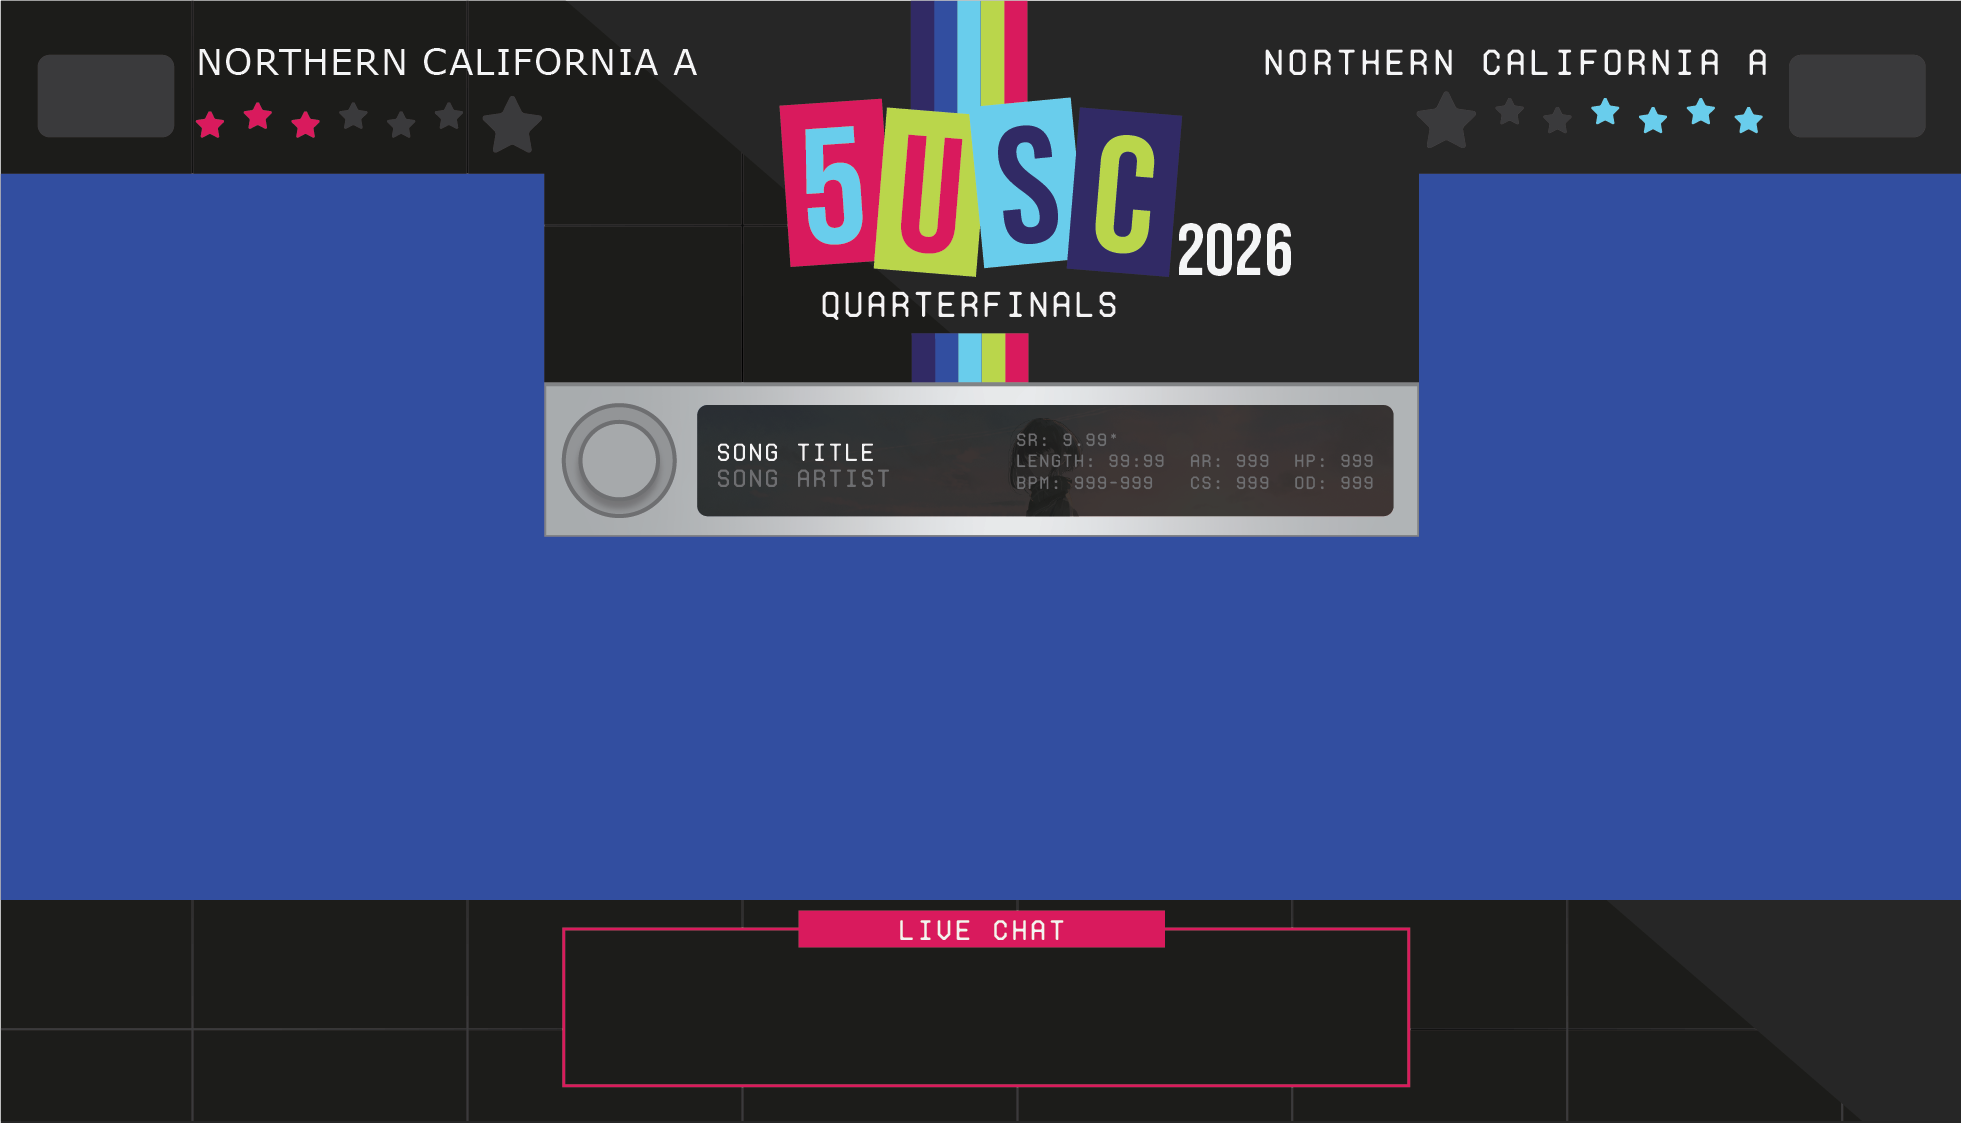
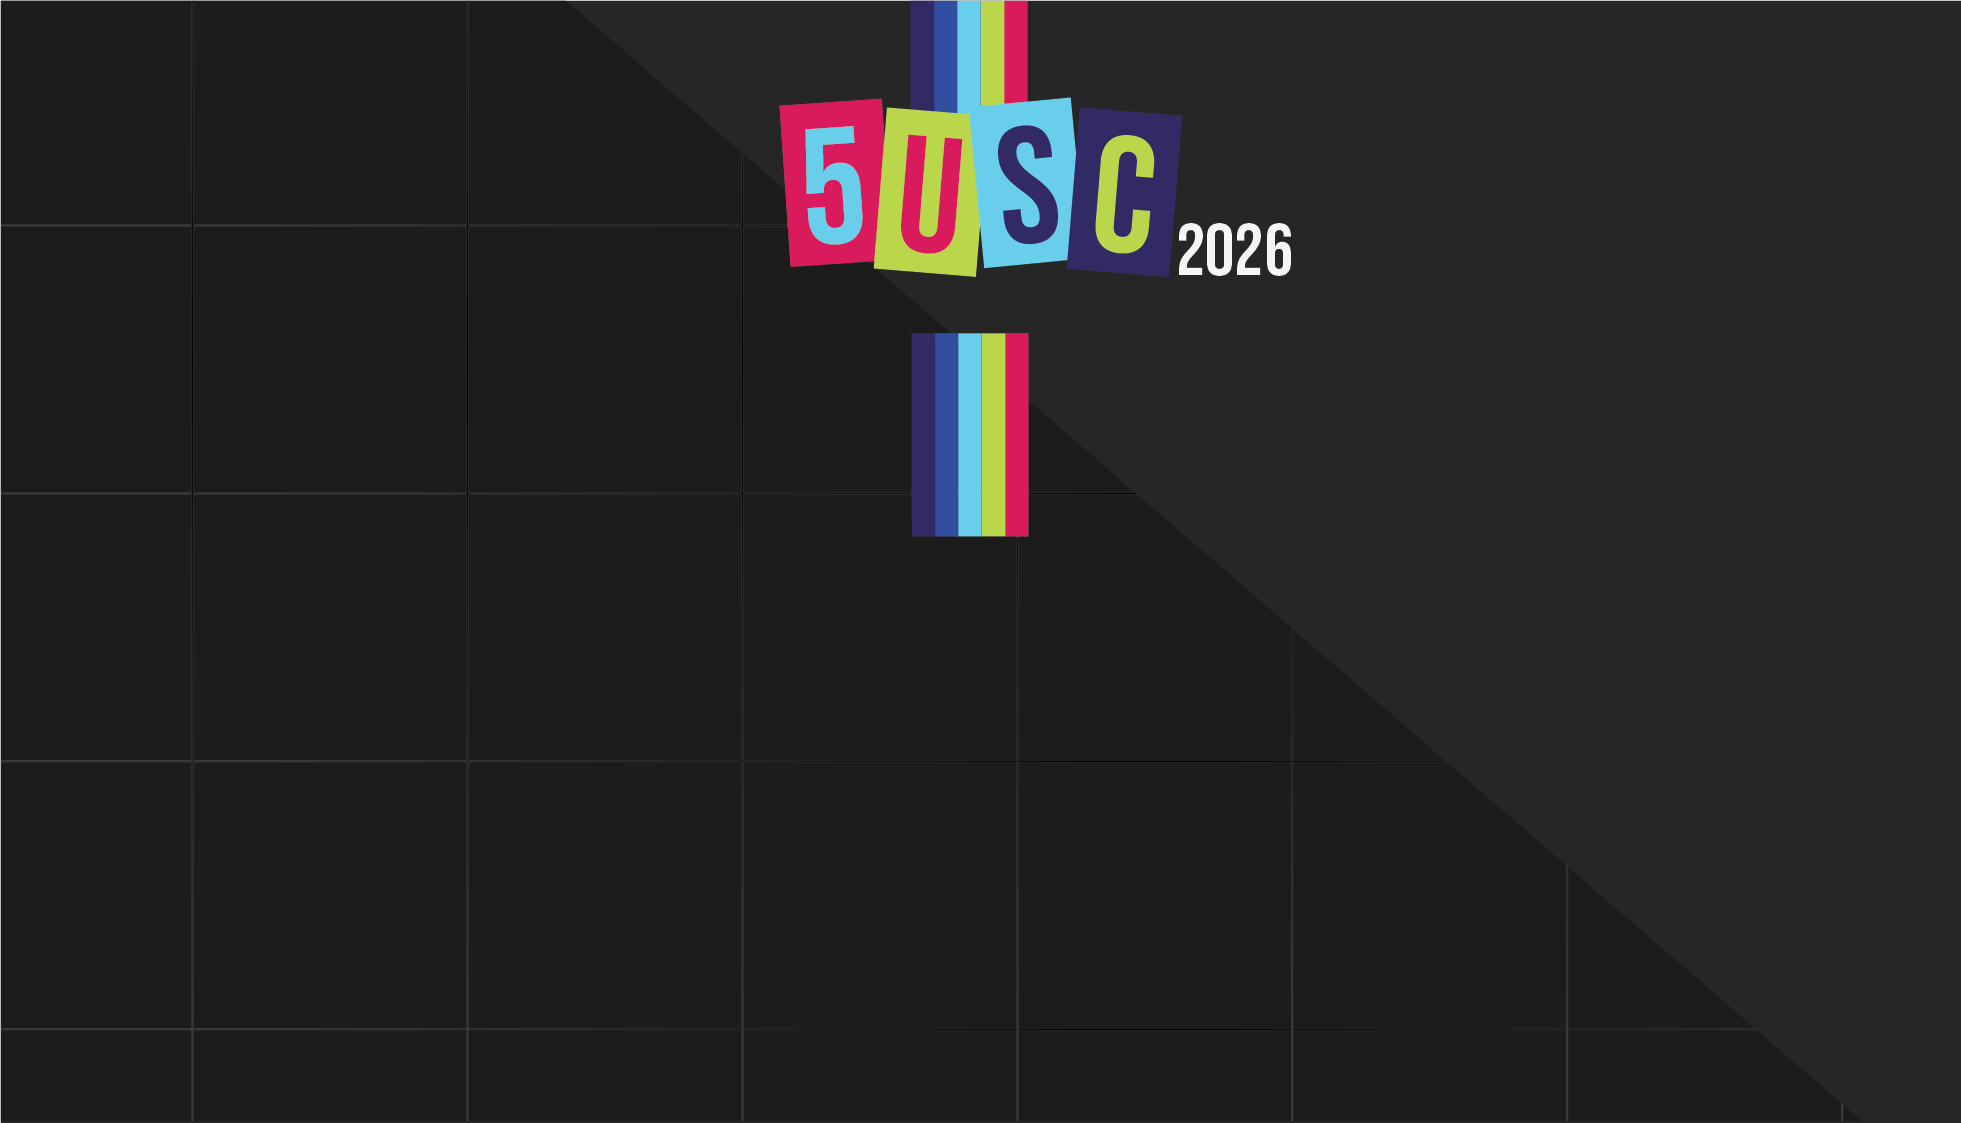
feat: chat display styling

diff --git a/main/style.css b/main/style.css
@@ -389,6 +389,32 @@
 }
 
 /* ===========================
+   Chat Display
+=========================== */
+.chat-display {
+    position: absolute;
+    top: 900px;
+    width: 100%;
+    height: 160px;
+}
+
+.chat-display > * {
+    position: absolute;
+    left: 50%;
+    transform: translateX(-50%);
+}
+
+.chat-display-title { z-index: 1; }
+
+.chat-display-container {
+    position: absolute;
+    top: 19px;
+    border: 3px solid #D91A5D;
+    width: 860px;
+    height: 141px;
+}
+
+/* ===========================
     Sidebar
 =========================== */
 .sidebar {

diff --git a/main/index.html b/main/index.html
@@ -65,6 +65,12 @@
             <div class="score score-difference" id="score-difference-number">999, 999, 999</div>
             <img class="score-dial" id="score-dial" src="static/dial-arrow.png">
         </div>
+
+        <!-- Chat Display -->
+        <div class="chat-display">
+            <img class="chat-display-title" src="static/live-chat.png">
+            <div class="chat-display-container"></div>
+        </div>
     </div>
 
     <!-- Sidebar -->
